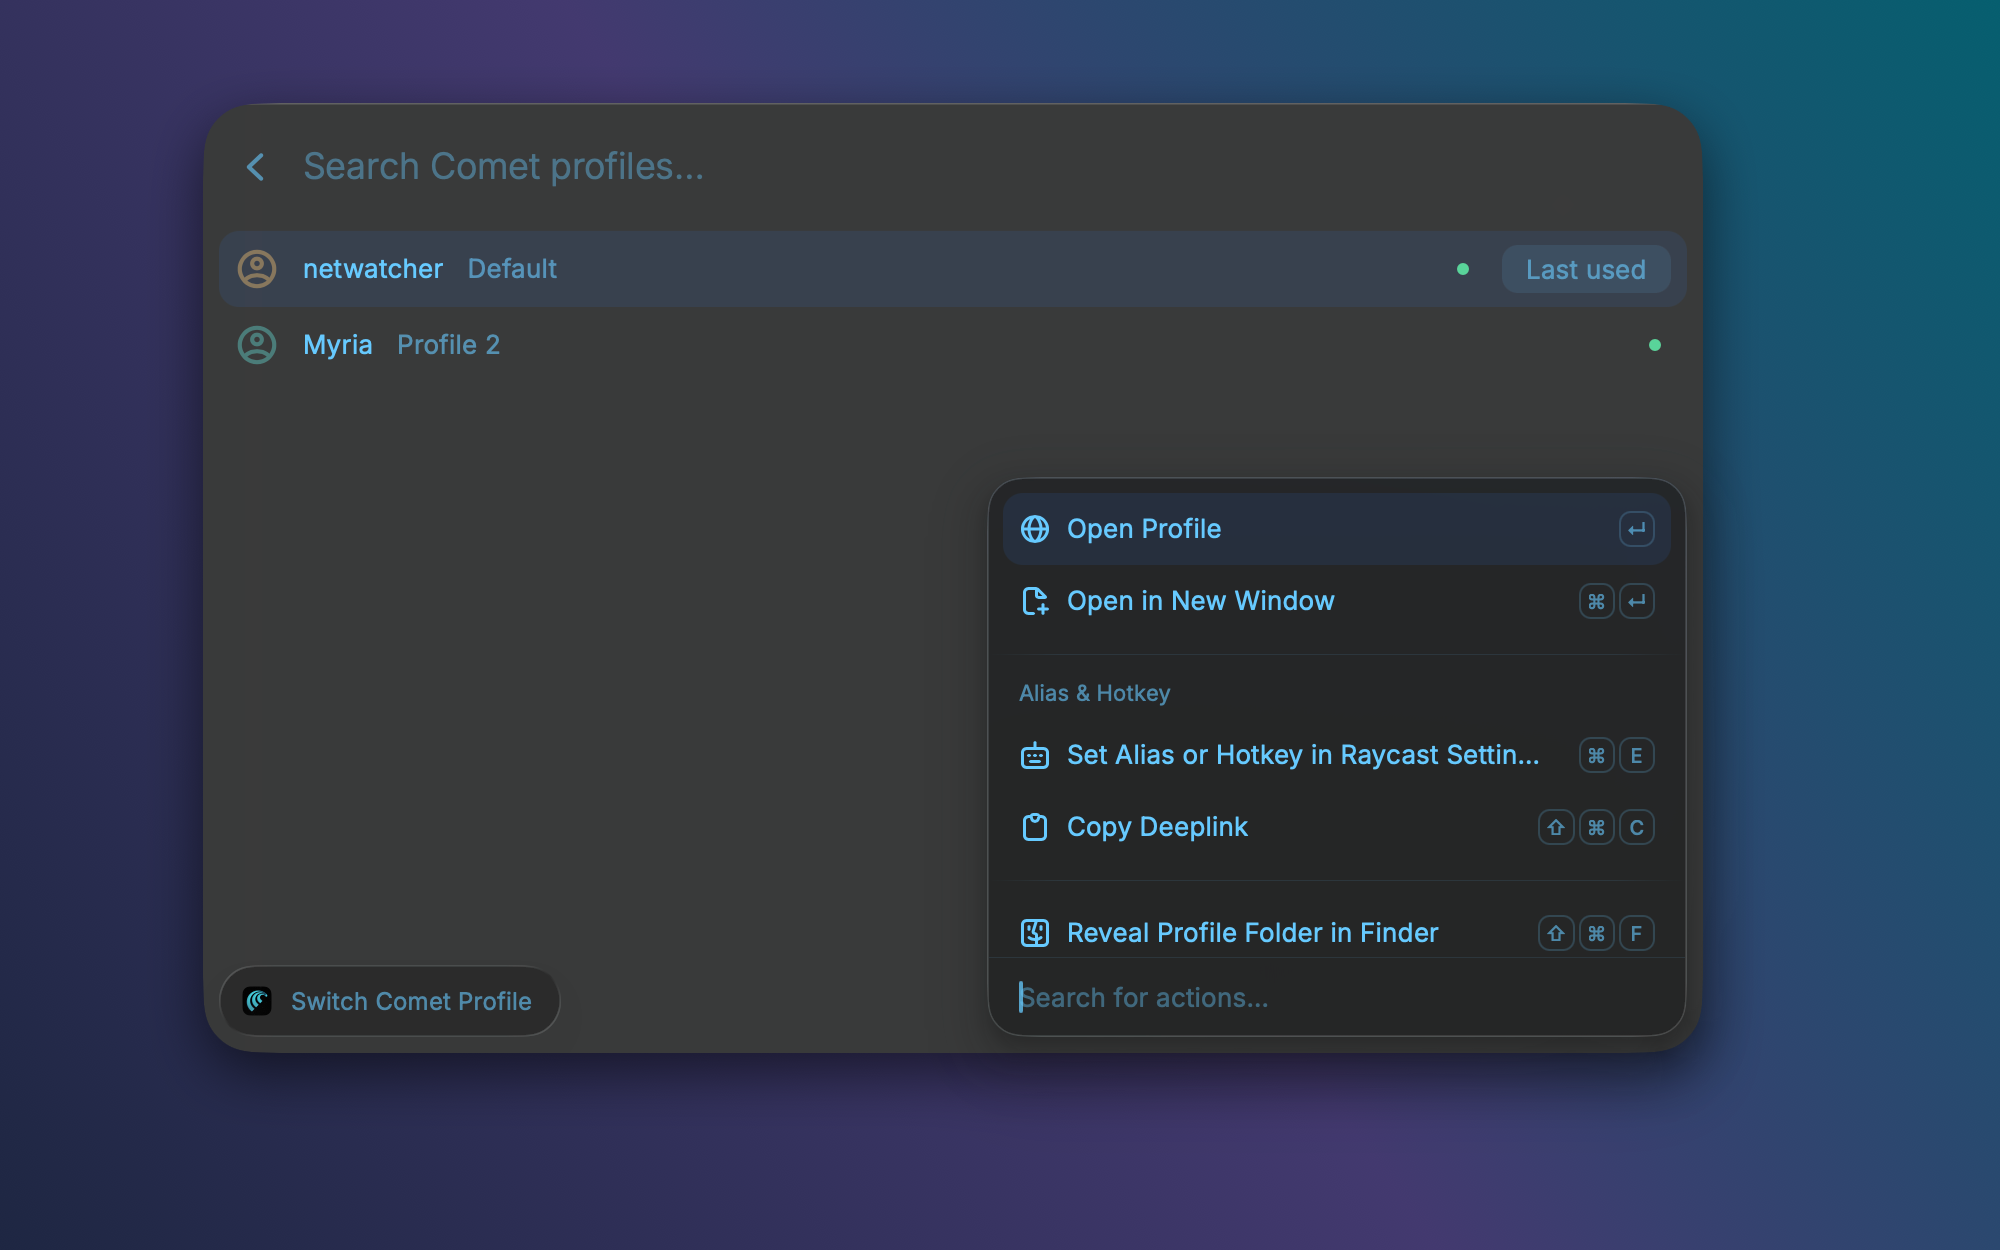
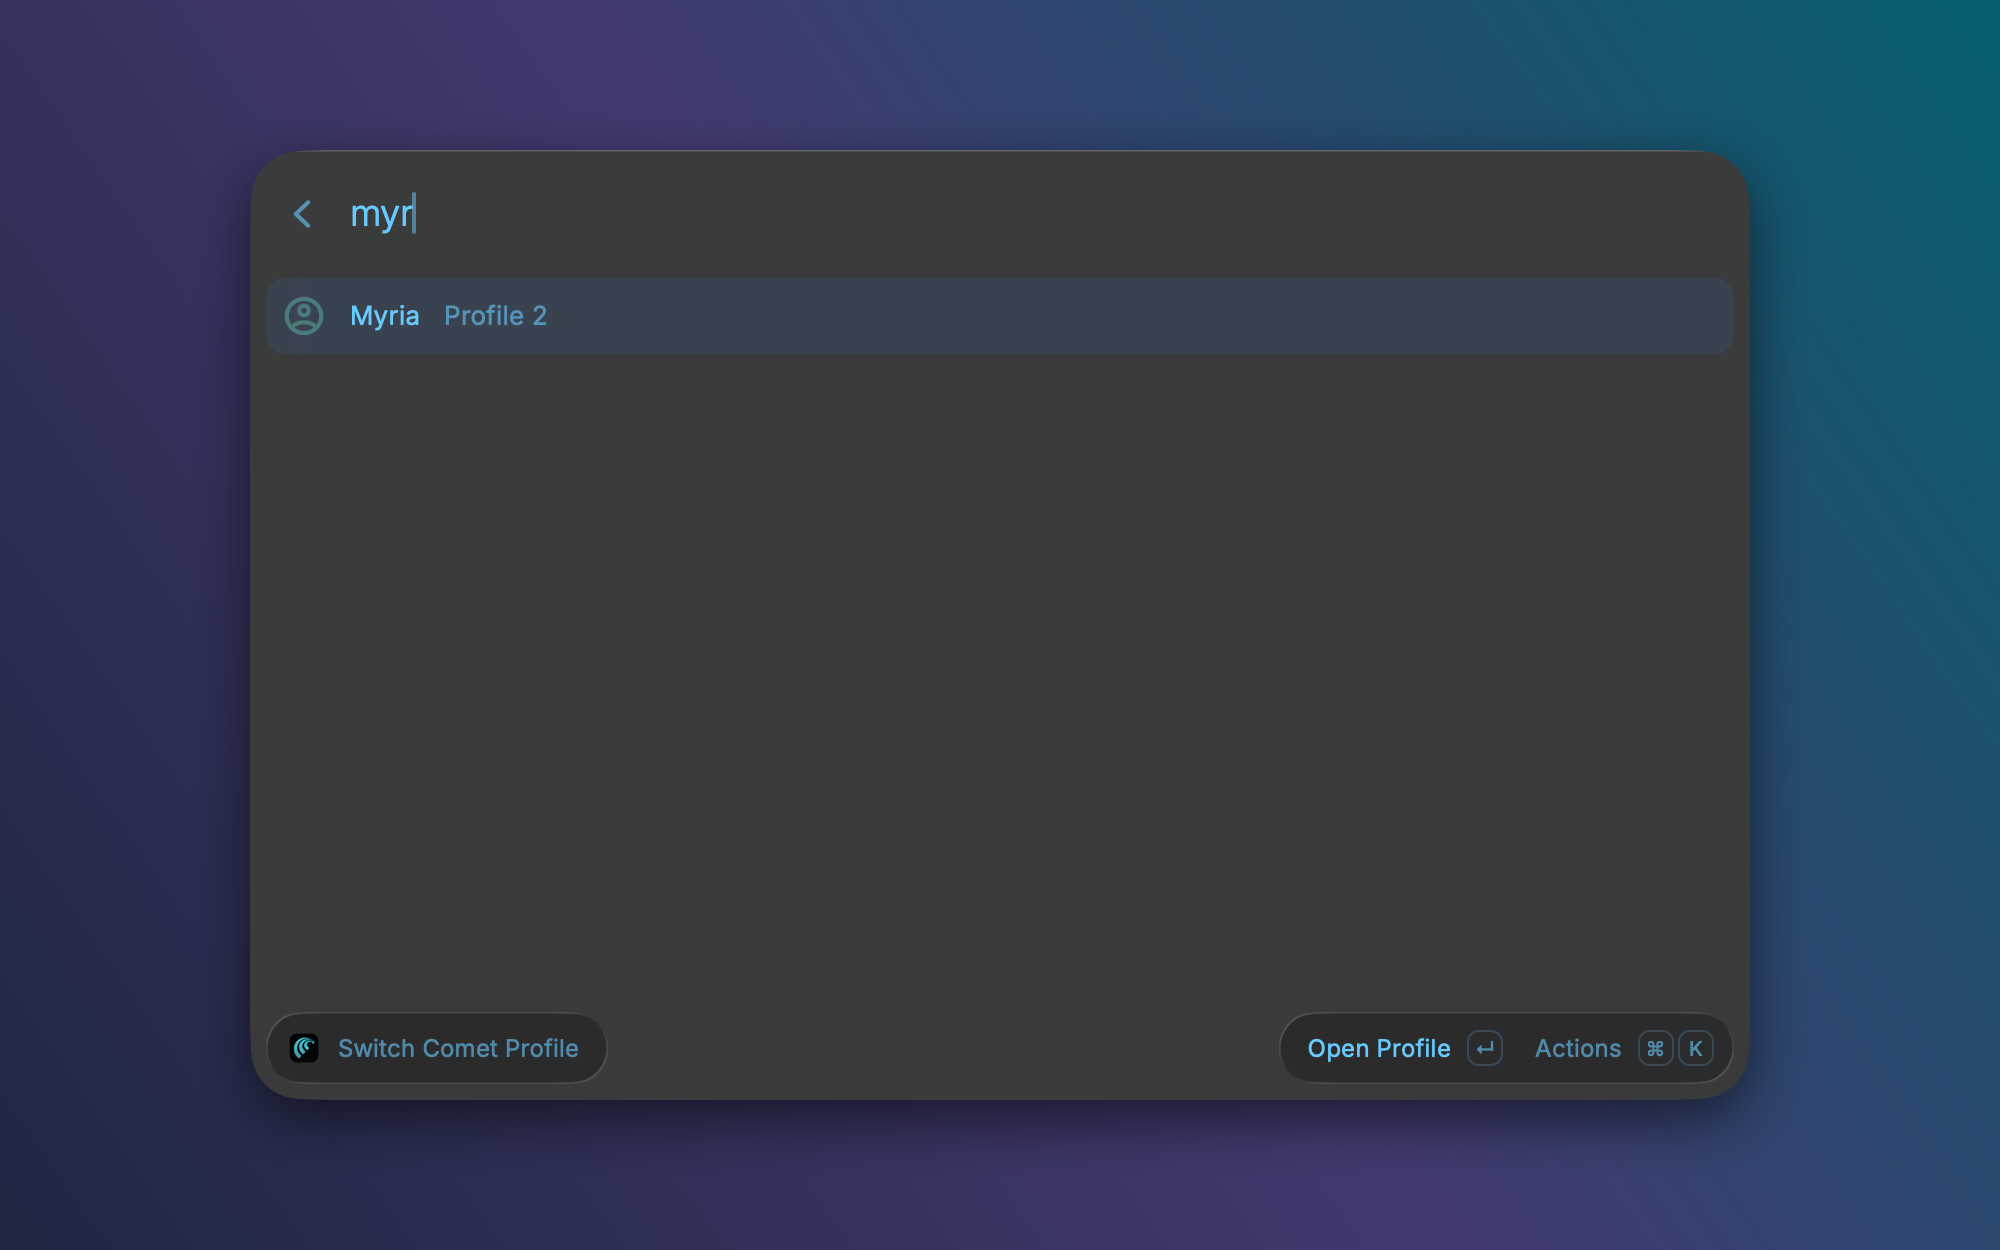
Address review: deeplink via declared command, generated preference types, screenshot padding
- Copy Deeplink now targets Switch Comet Profile with the profile in the
  launch context; the command opens it immediately instead of listing.
- Use the generated ExtensionPreferences / Preferences.Slot1 / Arguments.Slot1
  types instead of hand-written copies.
- Replace screenshot 3 with a plain window capture so padding matches the
  other two.

diff --git a/src/comet.ts b/src/comet.ts
@@ -1,4 +1,4 @@
-import { Cache, environment, getPreferenceValues, Application } from "@raycast/api";
+import { Cache, environment, getPreferenceValues } from "@raycast/api";
 import { execFile } from "node:child_process";
 import { existsSync, readFileSync, statSync } from "node:fs";
 import { homedir } from "node:os";
@@ -17,12 +17,6 @@ export interface CometProfile {
   lastUsed: boolean;
   /** Whether this profile currently has an open window (per Comet's own bookkeeping). */
   active: boolean;
-}
-
-interface Preferences {
-  cometApp?: Application;
-  userDataDir?: string;
-  alwaysNewWindow?: boolean;
 }
 
 interface LocalStateProfileEntry {
@@ -54,19 +48,19 @@ function expandHome(p: string): string {
 }
 
 export function getUserDataDir(): string {
-  const { userDataDir } = getPreferenceValues<Preferences>();
+  const { userDataDir } = getPreferenceValues<ExtensionPreferences>();
   const dir = userDataDir?.trim();
   return dir ? expandHome(dir) : DEFAULT_USER_DATA_DIR;
 }
 
 export function getAppPath(): string {
-  const { cometApp } = getPreferenceValues<Preferences>();
+  const { cometApp } = getPreferenceValues<ExtensionPreferences>();
   if (cometApp?.path && existsSync(cometApp.path)) return cometApp.path;
   return DEFAULT_APP_PATH;
 }
 
 export function alwaysNewWindow(): boolean {
-  return getPreferenceValues<Preferences>().alwaysNewWindow === true;
+  return getPreferenceValues<ExtensionPreferences>().alwaysNewWindow === true;
 }
 
 export function isCometInstalled(): boolean {
@@ -248,22 +242,20 @@ export function launchProfile(profile: CometProfile, options: LaunchOptions = {}
 }
 
 /** Deeplink to one of this extension's commands. */
-export function commandDeeplink(command: string, args?: Record<string, string>): string {
-  const base = `raycast://extensions/${environment.ownerOrAuthorName}/${environment.extensionName}/${command}`;
-  return args ? `${base}?arguments=${encodeURIComponent(JSON.stringify(args))}` : base;
+export function commandDeeplink(command: string): string {
+  return `raycast://extensions/${environment.ownerOrAuthorName}/${environment.extensionName}/${command}`;
 }
 
-/** Name of the generated per-profile command (see scripts/sync-profiles.mjs; must match its slug rule). */
-export function profileCommandName(profile: CometProfile): string {
-  const slug =
-    profile.directory
-      .toLowerCase()
-      .replace(/[^a-z0-9]+/g, "-")
-      .replace(/^-+|-+$/g, "") || "profile";
-  return `profile-${slug}`;
+/** Launch context accepted by the "Switch Comet Profile" command to open a profile straight away. */
+export interface ProfileLaunchContext {
+  profile?: string;
 }
 
-/** Deeplink that opens this profile. Usable from Quicklinks, Shortcuts.app, a terminal, etc. */
+/**
+ * Deeplink that opens this profile via the "Switch Comet Profile" command's launch context.
+ * Usable from Quicklinks, Shortcuts.app, a terminal, etc.
+ */
 export function profileDeeplink(profile: CometProfile): string {
-  return commandDeeplink(profileCommandName(profile));
+  const context: ProfileLaunchContext = { profile: profile.directory };
+  return `${commandDeeplink("switch-profile")}?context=${encodeURIComponent(JSON.stringify(context))}`;
 }

diff --git a/src/switch-profile.tsx b/src/switch-profile.tsx
@@ -1,6 +1,24 @@
-import { Action, ActionPanel, Color, Icon, Image, Keyboard, List, open, openExtensionPreferences } from "@raycast/api";
-import { useCallback, useState } from "react";
-import { CometProfile, getProfiles, getUserDataDir, isCometInstalled, profileDeeplink } from "./comet";
+import {
+  Action,
+  ActionPanel,
+  Color,
+  Icon,
+  Image,
+  Keyboard,
+  LaunchProps,
+  List,
+  open,
+  openExtensionPreferences,
+} from "@raycast/api";
+import { useCallback, useEffect, useState } from "react";
+import {
+  CometProfile,
+  getProfiles,
+  getUserDataDir,
+  isCometInstalled,
+  ProfileLaunchContext,
+  profileDeeplink,
+} from "./comet";
 import { openProfile } from "./launch";
 import { join } from "node:path";
 
@@ -9,11 +27,19 @@ function profileIcon(profile: CometProfile): Image.ImageLike {
   return { source: Icon.PersonCircle, tintColor: profile.color ?? Color.PrimaryText };
 }
 
-export default function Command() {
+export default function Command(props: LaunchProps<{ launchContext?: ProfileLaunchContext }>) {
   // getProfiles() is synchronous and cached, so the list renders fully on first paint.
   const [profiles, setProfiles] = useState<CometProfile[]>(getProfiles);
   const refresh = useCallback(() => setProfiles(getProfiles()), []);
   const installed = isCometInstalled();
+
+  // Launched via deeplink with a profile in the context: open it right away instead of showing the list.
+  const wanted = props.launchContext?.profile;
+  const direct = wanted && installed ? profiles.find((p) => p.directory === wanted) : undefined;
+  useEffect(() => {
+    if (direct) openProfile(direct, {}, profiles.length);
+  }, [direct]);
+  if (direct) return <List isLoading />;
 
   if (!installed) {
     return (

diff --git a/src/slot.ts b/src/slot.ts
@@ -2,7 +2,8 @@ import { getPreferenceValues, LaunchProps, openCommandPreferences, showToast, To
 import { findProfile, getProfiles, isCometInstalled } from "./comet";
 import { openProfile } from "./launch";
 
-export type SlotProps = LaunchProps<{ arguments: { url?: string } }>;
+/** All five slot commands share the same preference and argument shape; Slot1 stands in for each. */
+export type SlotProps = LaunchProps<{ arguments: Arguments.Slot1 }>;
 
 /** Body of the "Profile N" commands: open whichever profile the command's preference names. */
 export async function runSlot(props: SlotProps): Promise<void> {
@@ -15,7 +16,7 @@ export async function runSlot(props: SlotProps): Promise<void> {
     return;
   }
 
-  const wanted = getPreferenceValues<{ profile: string }>().profile;
+  const wanted = getPreferenceValues<Preferences.Slot1>().profile;
   const profiles = getProfiles();
   const profile = findProfile(wanted, profiles);
   if (!profile) {
